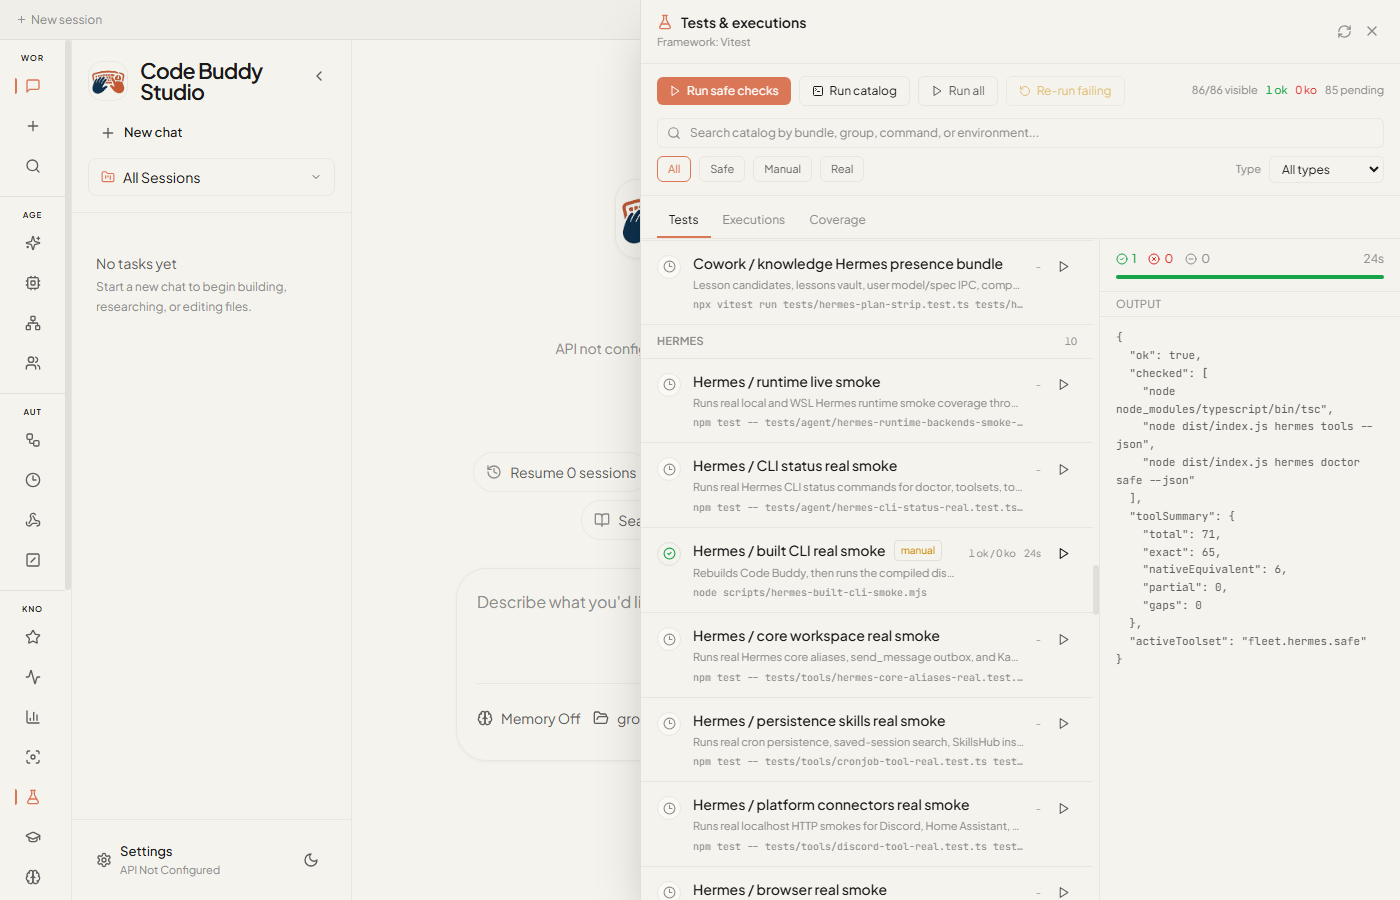
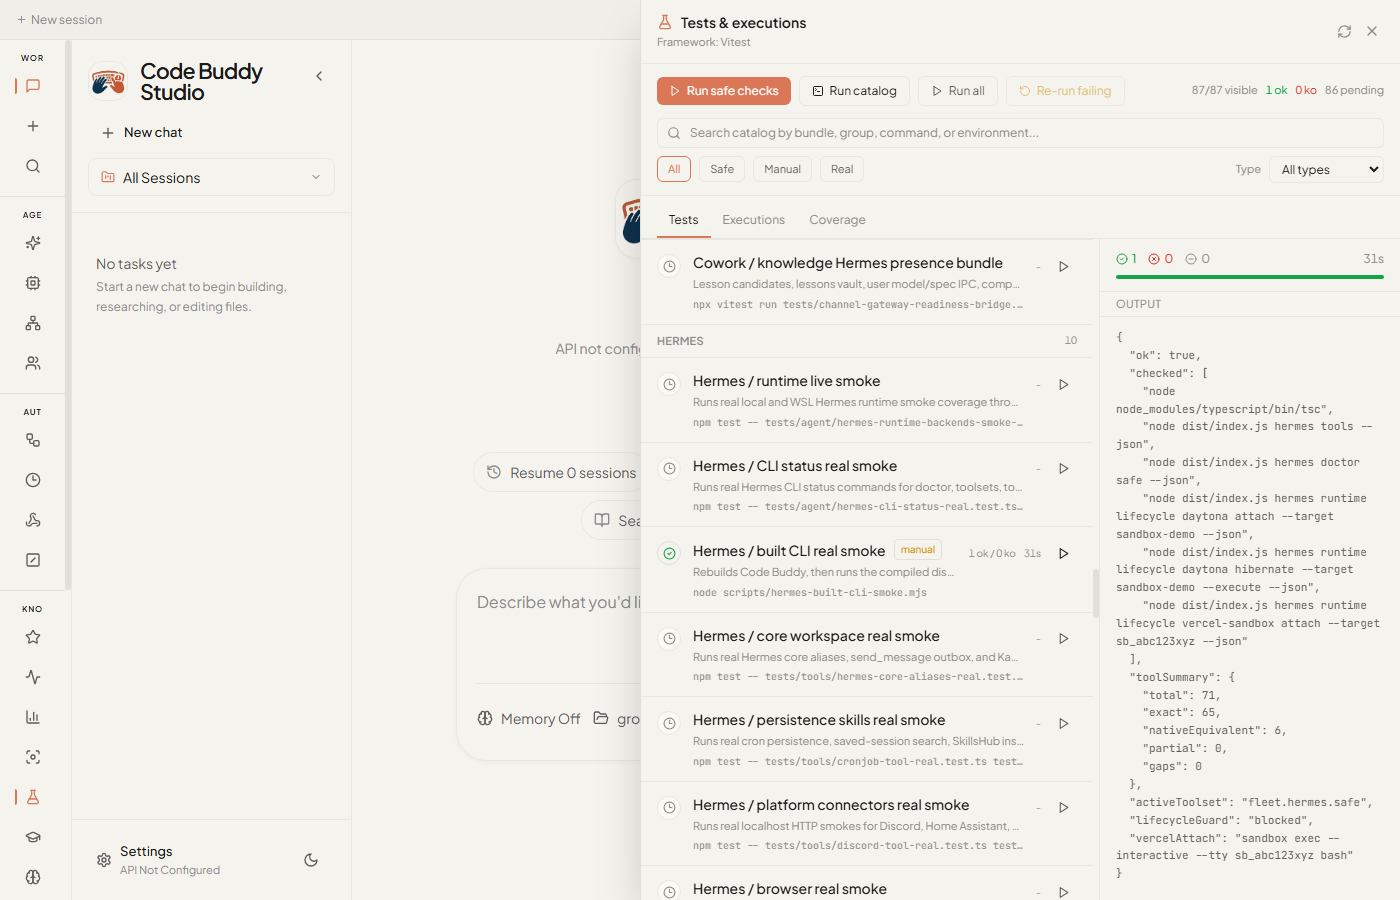
docs(qa): prove Hermes lifecycle guards in public evidence
The public Cowork QA evidence already had a built Hermes CLI smoke screenshot, but it only proved tool parity and doctor status. The runner now rebuilds the CLI and also verifies runtime lifecycle plan output, blocked guarded execution, and the Vercel Sandbox attach mapping before refreshing the public screenshot evidence.

Constraint: The user wants documentation with screenshots and real tests, not only backend implementation.

Constraint: Runtime lifecycle execution is intentionally blocked without allow flags, so the public proof should assert the guard rather than create cloud resources.

Rejected: Add a separate public screenshot row | the existing Hermes built CLI row is the clearest user-visible proof and keeps the docs smaller.

Confidence: high

Scope-risk: narrow

Directive: Keep public screenshots backed by real runner commands and rerun npm run test:docs-public after every screenshot refresh.

Tested: node scripts\hermes-built-cli-smoke.mjs

Tested: cd cowork && npx vitest run tests/test-runner-bridge-catalog.test.ts --reporter=verbose

Tested: npm run test:docs-public

Tested: cd cowork && npm run build:e2e && npx playwright test e2e/test-runner-hermes-built-cli-real.spec.ts --reporter=list --timeout=420000

Not-tested: Live Daytona/Vercel account lifecycle execution; public proof intentionally verifies blocked guarded execution.

diff --git a/cowork/src/main/testing/test-runner-bridge.ts b/cowork/src/main/testing/test-runner-bridge.ts
@@ -1179,7 +1179,7 @@ export class TestRunnerBridge extends EventEmitter {
           label: 'Hermes / built CLI real smoke',
           group: 'Hermes',
           description:
-            'Rebuilds Code Buddy, then runs the compiled dist CLI for Hermes tool parity and doctor status',
+            'Rebuilds Code Buddy, then runs the compiled dist CLI for Hermes tool parity, doctor status, and guarded runtime lifecycle checks',
           command: 'node',
           args: ['scripts/hermes-built-cli-smoke.mjs'],
           cwd: workspace,

diff --git a/cowork/tests/test-runner-bridge-catalog.test.ts b/cowork/tests/test-runner-bridge-catalog.test.ts
@@ -1126,6 +1126,7 @@ describe('TestRunnerBridge catalog', () => {
     });
     expect(catalog.find((item) => item.label === 'Hermes / built CLI real smoke')).toMatchObject({
       command: 'node',
+      description: expect.stringContaining('guarded runtime lifecycle checks'),
       args: ['scripts/hermes-built-cli-smoke.mjs'],
       kind: 'integration',
       safeToRun: false,

diff --git a/docs/qa/code-buddy-studio/README.md b/docs/qa/code-buddy-studio/README.md
@@ -19,7 +19,7 @@ Start here when you want proof that the documented Cowork flows have been exerci
 - ChatGPT OAuth `gpt-5.5`: account check, provider direct call, stream, tool-call, CLI, server API, and Cowork/Electron.
 - Cowork desktop: workspace, settings, chat, IPC, companion, permissions, workflows, MCP, Fleet, plugins, and runner surfaces.
 - **Tests & executions**: safe bundles, opt-in real checks, cancellation, timeout, failure tracking, and re-run failing behavior.
-- Real infrastructure: local HTTP server, MCP stdio/HTTP fixtures, Fleet peer/tool checks, Docker sandbox, Computer Use, and Hermes built CLI smoke.
+- Real infrastructure: local HTTP server, MCP stdio/HTTP fixtures, Fleet peer/tool checks, Docker sandbox, Computer Use, and Hermes built CLI smoke including guarded runtime lifecycle checks.
 - Publication safety: public docs and screenshots are checked for private account, token, local path, and screenshot metadata leaks.
 
 ## Representative Captures

diff --git a/docs/qa/code-buddy-studio/feature-qa.md b/docs/qa/code-buddy-studio/feature-qa.md
@@ -531,7 +531,7 @@ Bugs importants corriges :
   - Le catalogue `Tests & executions` expose maintenant `Cowork / settings hooks MCP workflows bundle`. Le test UI dedie lance settings theme/autostart, dry-runs hooks, sync MCP et workflows/Orchestrator reel, puis prouve `62 ok / 0 ko`.
   - Correction : les commandes personnalisees sauvegardees n'injectent plus le saut de ligne final de serialisation Markdown dans le prompt execute. Le nouveau bundle `Cowork / custom commands slash bundle` prouve `11 ok / 0 ko` depuis l'UI.
   - Le catalogue `Tests & executions` expose maintenant `Cowork / knowledge Hermes presence bundle`. Le test UI dedie lance les surfaces lecons, user model/spec, compagnon IPC, Hermes profile, review de skills et presence model, puis prouve `85 ok / 0 ko`.
-  - Le catalogue `Tests & executions` expose maintenant `Hermes / built CLI real smoke`. Le test UI dedie reconstruit vraiment Code Buddy depuis la fenetre, lance `node dist/index.js hermes tools --json` et `node dist/index.js hermes doctor safe --json`, puis prouve `1 ok / 0 ko`. Capture : [`109-test-runner-hermes-built-cli-real.png`](./screenshots/109-test-runner-hermes-built-cli-real.png).
+  - Le catalogue `Tests & executions` expose maintenant `Hermes / built CLI real smoke`. Le test UI dedie reconstruit vraiment Code Buddy depuis la fenetre, lance `node dist/index.js hermes tools --json`, `node dist/index.js hermes doctor safe --json`, `node dist/index.js hermes runtime lifecycle daytona attach --target sandbox-demo --json`, le parcours `--execute` Daytona bloque sans allow flag, et le plan Vercel Sandbox attach documente `sandbox exec --interactive --tty ... bash`, puis prouve `1 ok / 0 ko`. Capture : [`109-test-runner-hermes-built-cli-real.png`](./screenshots/109-test-runner-hermes-built-cli-real.png).
   - Le catalogue `Tests & executions` expose maintenant la suite sure `Cowork / IPC chat flow`. Le test UI dedie lance vraiment le parcours chat IPC de creation puis continuation de session, puis prouve `1 ok / 0 ko`.
   - Le catalogue `Tests & executions` expose maintenant la suite sure `Cowork / companion deterministic panel`. Le test UI dedie lance vraiment le cockpit compagnon deterministe complet, puis prouve `1 ok / 0 ko`.
   - Les checks catalogue longs ont maintenant un timeout par ligne et tuent l'arbre de processus en cas de blocage. Ce correctif a ete ajoute apres qu'un premier lancement UI de `Server / real GPT-5.5 chat API` est reste en `running` plus de 6 minutes sans resultat. La regression unitaire lance un vrai process Node infini avec marqueur `QA_TIMEOUT_MARKER_*`, obtient `Timed out after 300ms` et verifie qu'aucun process enfant ne reste actif. Une regression E2E lance aussi un script `test:hang` depuis la fenetre et verifie `Timed out after 1500ms`.